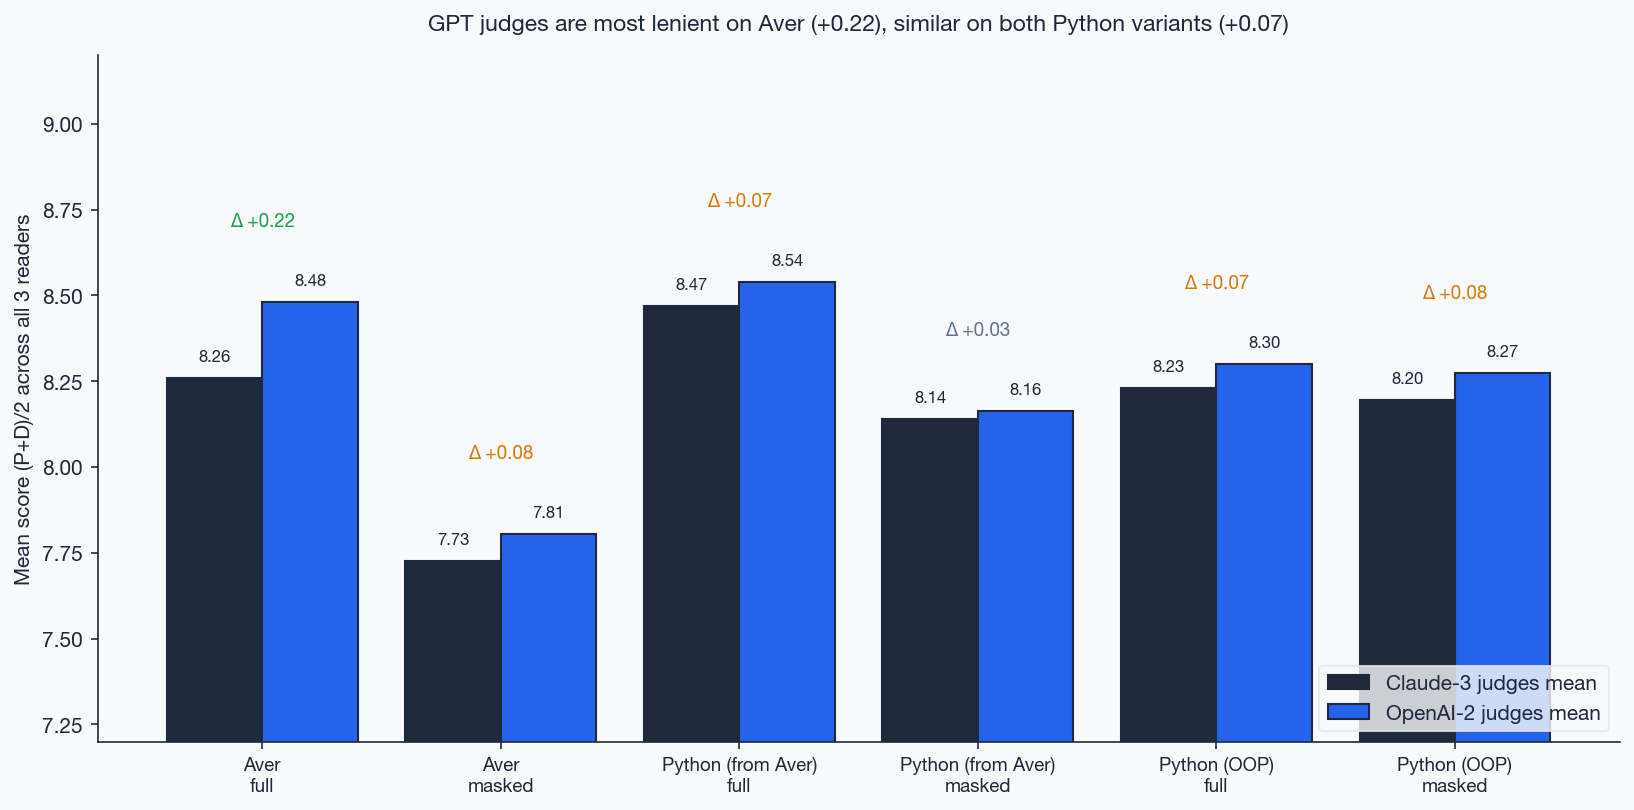
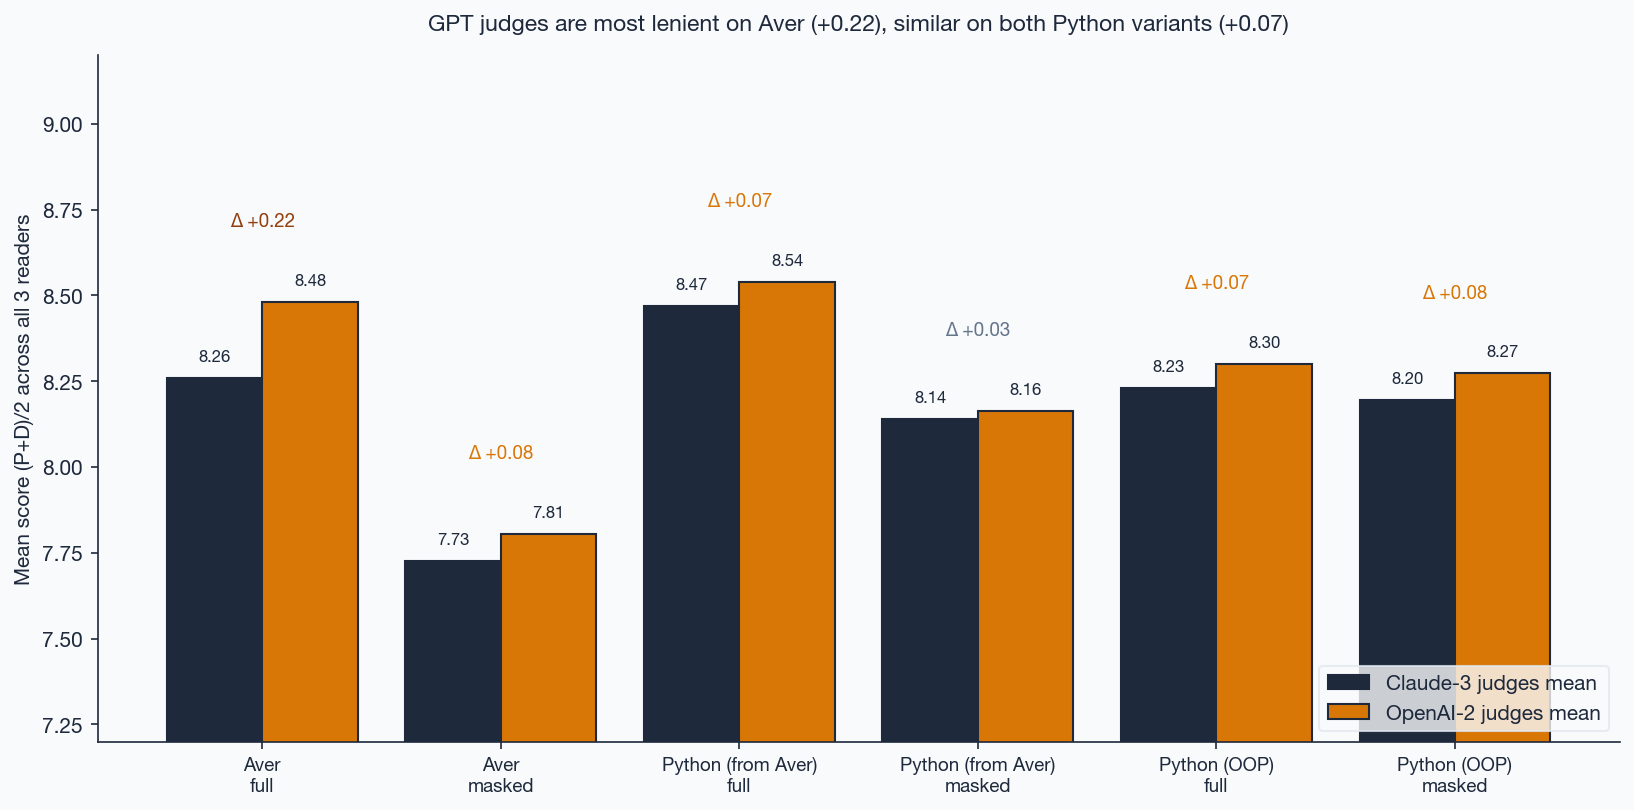
Use only Aver brand palette in judge-bias plots
Replace blue/green/red callouts with amber intensity (AMBER_DARK / AMBER /
SLATE_MUTED) and slate for the "Python wins" direction. Amber = Aver wins
or notable effect size; slate = Python wins; slate-muted = neutral/tie.

diff --git a/scripts/plot_judge_bias.py b/scripts/plot_judge_bias.py
@@ -19,14 +19,11 @@ import numpy as np
 
 AMBER = "#d97706"
 AMBER_LIGHT = "#f59e0b"
+AMBER_DARK = "#92400e"
 SLATE = "#1e293b"
 SLATE_MUTED = "#64748b"
 SLATE_LIGHT = "#e2e8f0"
 BG = "#f8fafc"
-BLUE = "#2563eb"
-GREEN = "#16a34a"
-RED = "#dc2626"
-PURPLE = "#7c3aed"
 
 mpl.rcParams.update({
     "font.family": ["Helvetica Neue", "Arial", "sans-serif"],
@@ -163,8 +160,8 @@ def judges_3v5_comparison(out_path: Path) -> None:
         if top_five != top_three:
             ax.annotate("ranking reversal", xy=(top_five + w / 2, five_vals[top_five]),
                         xytext=(top_five, max(five_vals) + 0.25),
-                        fontsize=9, fontweight="bold", color=RED, ha="center",
-                        arrowprops=dict(arrowstyle="->", color=RED, lw=1.2))
+                        fontsize=9, fontweight="bold", color=AMBER_DARK, ha="center",
+                        arrowprops=dict(arrowstyle="->", color=AMBER_DARK, lw=1.2))
 
         ax.set_xticks(x)
         ax.set_xticklabels([LANG_LABELS[l] for l in langs], rotation=12, ha="right", fontsize=9)
@@ -218,17 +215,17 @@ def judge_family_x_lang(out_path: Path) -> None:
     w = 0.4
     b1 = ax.bar(x - w / 2, claude_vals, w, color=SLATE, edgecolor=SLATE, linewidth=1.0,
                 label="Claude-3 judges mean")
-    b2 = ax.bar(x + w / 2, gpt_vals, w, color=BLUE, edgecolor=SLATE, linewidth=1.0,
+    b2 = ax.bar(x + w / 2, gpt_vals, w, color=AMBER, edgecolor=SLATE, linewidth=1.0,
                 label="OpenAI-2 judges mean")
     for bars, vals in ((b1, claude_vals), (b2, gpt_vals)):
         for bar, v in zip(bars, vals):
             ax.text(bar.get_x() + bar.get_width() / 2, v + 0.04, f"{v:.2f}",
                     ha="center", va="bottom", fontsize=8, color=SLATE)
 
-    # Δ annotations per pair
+    # Δ annotations per pair (amber intensity scales with effect size)
     for i, (c, g) in enumerate(zip(claude_vals, gpt_vals)):
         delta = g - c
-        color = GREEN if delta > 0.15 else (AMBER if delta > 0.05 else SLATE_MUTED)
+        color = AMBER_DARK if delta > 0.15 else (AMBER if delta > 0.05 else SLATE_MUTED)
         ax.annotate(f"Δ {delta:+.2f}", xy=(i, max(c, g) + 0.22), ha="center",
                     fontsize=9, fontweight="bold", color=color)
 
@@ -280,9 +277,9 @@ def ablation_all_readers(out_path: Path) -> None:
         for bar, v in zip(b2, mask_vals):
             ax.text(bar.get_x() + bar.get_width() / 2, v + 0.05, f"{v:.2f}",
                     ha="center", va="bottom", fontsize=8, color=SLATE)
-        # Delta below each pair
+        # Delta below each pair (amber intensity = drop size)
         for i, d in enumerate(deltas):
-            color = RED if d < -0.3 else (AMBER if d < -0.1 else GREEN)
+            color = AMBER_DARK if d < -0.3 else (AMBER if d < -0.1 else SLATE_MUTED)
             ax.text(i, 7.05, f"Δ {d:+.2f}", ha="center", va="bottom",
                     fontsize=9, fontweight="bold", color=color)
 
@@ -392,10 +389,16 @@ def program_complexity_advantage(out_path: Path) -> None:
                 linewidth=1.0, label="Aver − Python (OOP)")
     b2 = ax.bar(x + w / 2, aver_advantage_vs_pfa, w, color=SLATE_MUTED, edgecolor=SLATE,
                 linewidth=1.0, label="Aver − Python (from Aver)")
+    # Amber = Aver wins, Slate = Python wins, Slate-muted = tie
     for bars, vals in ((b1, aver_advantage_vs_oop), (b2, aver_advantage_vs_pfa)):
         for bar, v in zip(bars, vals):
             y = v + (0.03 if v >= 0 else -0.08)
-            color = GREEN if v > 0.1 else (RED if v < -0.1 else SLATE_MUTED)
+            if v > 0.1:
+                color = AMBER_DARK
+            elif v < -0.1:
+                color = SLATE
+            else:
+                color = SLATE_MUTED
             ax.text(bar.get_x() + bar.get_width() / 2, y, f"{v:+.2f}",
                     ha="center", va="bottom" if v >= 0 else "top",
                     fontsize=9, fontweight="bold", color=color)
